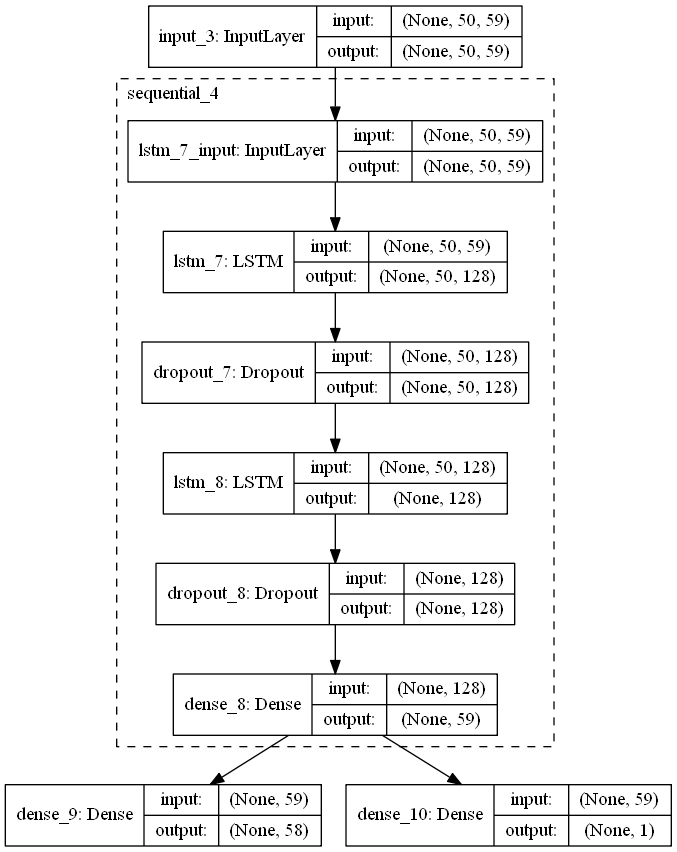
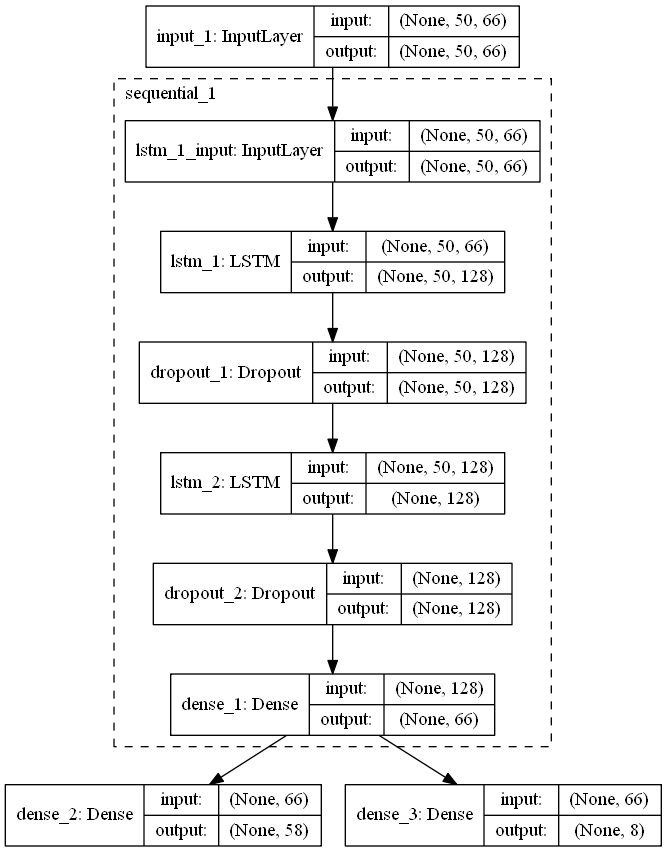
Improved note duration prediction

diff --git a/main.py b/main.py
@@ -1,6 +1,7 @@
 from music21 import *
 import glob
 import numpy as np
+import pandas as pd
 import matplotlib.pyplot as plt
 from keras.utils import np_utils, to_categorical
 from keras.utils.vis_utils import plot_model
@@ -44,6 +45,17 @@ def play_midi(midi, duration = 10):
     pygame.mixer.quit()
     if os.path.exists('temp.mid'):
         os.remove('temp.mid')
+        
+#=======================Plot model loss function===============================
+# summarize history for accuracy
+def plot_loss(history):
+    plt.plot(history.history['loss'])
+    plt.title('training loss')
+    plt.ylabel('loss')
+    plt.xlabel('epoch')
+    plt.legend(['train'], loc='upper left')
+    plt.savefig('LSTM_modl_loss.png')
+    plt.close('all')
 
 #========================Load in our music tracks==============================
 # We will load in all available tracks in Music folder and append them into a list
@@ -68,15 +80,23 @@ for i, file in enumerate(glob.glob("Music/*.mid")):
 #==========================Transform music data================================
 # Get all pitch names
 pitches = sorted(set(item for item in notes))
+# Get all duration variations
+durations = sorted(set(duration))
 # Count number of different pitches
 pitch_count = len(pitches)  
 note_count = len(notes)
+speed_count = len(durations)
 
 # Use one-hot encoding for each note and create an array 
 # First index the possible notes
 note_dict = dict()
 for i, notev in enumerate(pitches):
     note_dict[notev] = i
+    
+# Do the same for durations
+dur_dict = dict()
+for i, dur in enumerate(sorted(set(durations))):
+    dur_dict[dur] = i
 
 # Now let's construct sequences. Taking each note and encoding it as a numpy array with a 1 in the position of the note it has
 seq_len = 50
@@ -101,44 +121,46 @@ for i in range(0, num_seq):
 input_note_d = []
 for i in range(0, num_seq):
     start = 0
-    input_note_d.append(np.hstack((input_notes[i], np.array(duration)[start:start+50].reshape(50,1))))
+    input_note_d.append(np.hstack((input_notes[i], np.array(pd.get_dummies(duration))[start:start+50].reshape(50,8))))
     start += 1
 input_note_d = np.array(input_note_d)
 
 output_note_d = []
 for i in range(0, num_seq):
     start = seq_len # This is 50
-    output_note_d.append(np.hstack((output_notes[i], duration[start])))
+    output_note_d.append(np.hstack((output_notes[i], np.array(pd.get_dummies(duration))[start])))
     start += 1
 output_note_d = np.array(output_note_d)
 
 #===============================LSTM model=====================================
 model = Sequential()
-model.add(LSTM(128, return_sequences=True, input_shape=(sequence_length, pitch_count+1)))
+model.add(LSTM(128, return_sequences=True, input_shape=(seq_len, pitch_count+speed_count)))
 model.add(Dropout(0.2))
 model.add(LSTM(128, return_sequences=False))
 model.add(Dropout(0.2))
-model.add(Dense(pitch_count+1))
+model.add(Dense(pitch_count+speed_count))
 
 top_input = Input(shape=input_note_d.shape[1:])
 embedding = model(top_input)
 
 note_outs = Dense(pitch_count, activation='softmax')(embedding)
-duration_outs = Dense(1, activation='relu')(embedding)
+duration_outs = Dense(speed_count, activation='softmax')(embedding)
 
 #note_model.compile(loss='categorical_crossentropy', optimizer='rmsprop', metrics=['acc'])
 #duration_modl.compile(loss='mse', optimizer='rmsprop',metrics=['acc'])
 
 comb_modl = Model(top_input, [note_outs, duration_outs])
-comb_modl.compile(loss=['categorical_crossentropy', 'mse'],optimizer='rmsprop',metrics=['acc'])
+comb_modl.compile(loss=['categorical_crossentropy', 'categorical_crossentropy'],optimizer='rmsprop',metrics=['acc'])
 
 plot_model(comb_modl, to_file='LSTM_model.png' ,expand_nested=True, show_shapes=True, show_layer_names=True)
 
 #=============================Train LSTM model=================================
 #history = model.fit(input_note_d, output_note_d, batch_size=128, epochs=200)
 
-history = comb_modl.fit(input_note_d, [output_notes, np.array(duration[50:]).reshape(num_seq, 1)], 
-                        batch_size=128, epochs=200)
+history = comb_modl.fit(input_note_d, [output_notes, np.array(pd.get_dummies(duration))[50:]], 
+                        batch_size=128, epochs=1000)
+
+plot_loss(history)
 
 #===========================Use model to write song============================
 # Make a dictionary going backwards (with index as key and the note as the value)
@@ -147,29 +169,43 @@ for notev in note_dict.keys():
     index = note_dict[notev]
     backward_dict[index] = notev
 
+# Same for durations
+backward_dur = dict()
+for durv in dur_dict.keys():
+    index = dur_dict[durv]
+    backward_dur[index] = durv
+
 # Pick a random sequence from the input as a starting point for the prediction
 n = np.random.randint(0, len(input_note_d)-1)
 sequence = input_note_d[n]
-start_sequence = sequence.reshape(1, seq_len, pitch_count+1)
+start_sequence = sequence.reshape(1, seq_len, pitch_count+speed_count)
 output = []
 dur = []
 # Generate song with 100 notes
 for i in range(0, 100):
-    newNote, duration = comb_modl.predict(start_sequence, verbose=0)
-    # Get the position with the highest probability
+    newNote, durat = comb_modl.predict(start_sequence, verbose=0)
+    # Get the position with the highest probability for note
     index = np.argmax(newNote)
     encoded_note = to_categorical(index, pitch_count)
     output.append(encoded_note)
-    dur.append(duration)
+    # Do the same for duration
+    index2 = np.argmax(durat)
+    encoded_durat = to_categorical(index2, speed_count)
+    dur.append(encoded_durat)
     sequence = start_sequence[0][1:]
     start_sequence = np.concatenate((sequence, 
-                                     np.concatenate((encoded_note, duration.reshape(1,))).reshape(1, pitch_count+1)))
-    start_sequence = start_sequence.reshape(1, sequence_length, pitch_count+1)
+                                     np.concatenate((encoded_note, encoded_durat)).reshape(1, pitch_count+speed_count)))
+    start_sequence = start_sequence.reshape(1, seq_len, pitch_count+speed_count)
     
 finalNotes = [] 
 for element in output:
     index = list(element).index(1)
     finalNotes.append(backward_dict[index])
+
+finalDurations = []
+for element in dur:
+    index = list(element).index(1)
+    finalDurations.append(backward_dur[index])
     
 offset = 0
 output_notes = []
@@ -181,7 +217,7 @@ for i, pattern in enumerate(finalNotes):
         notes_in_chord = pattern.split('.')
         notes = []
         for current_note in notes_in_chord:
-            new_note = note.Note(pitch.Pitch(int(current_note)), quarterLength=float(dur[i]))
+            new_note = note.Note(pitch.Pitch(int(current_note)), quarterLength=finalDurations[i])
             new_note.storedInstrument = instrument.Piano()
             notes.append(new_note)
         new_chord = chord.Chord(notes)
@@ -189,7 +225,7 @@ for i, pattern in enumerate(finalNotes):
         output_notes.append(new_chord)
     # If pattern is a note
     else:
-        new_note = note.Note(pitch.Pitch(pattern), quarterLength=float(dur[i]))
+        new_note = note.Note(pitch.Pitch(pattern), quarterLength=finalDurations[i])
         new_note.offset = offset
         new_note.storedInstrument = instrument.Piano()
         output_notes.append(new_note)
